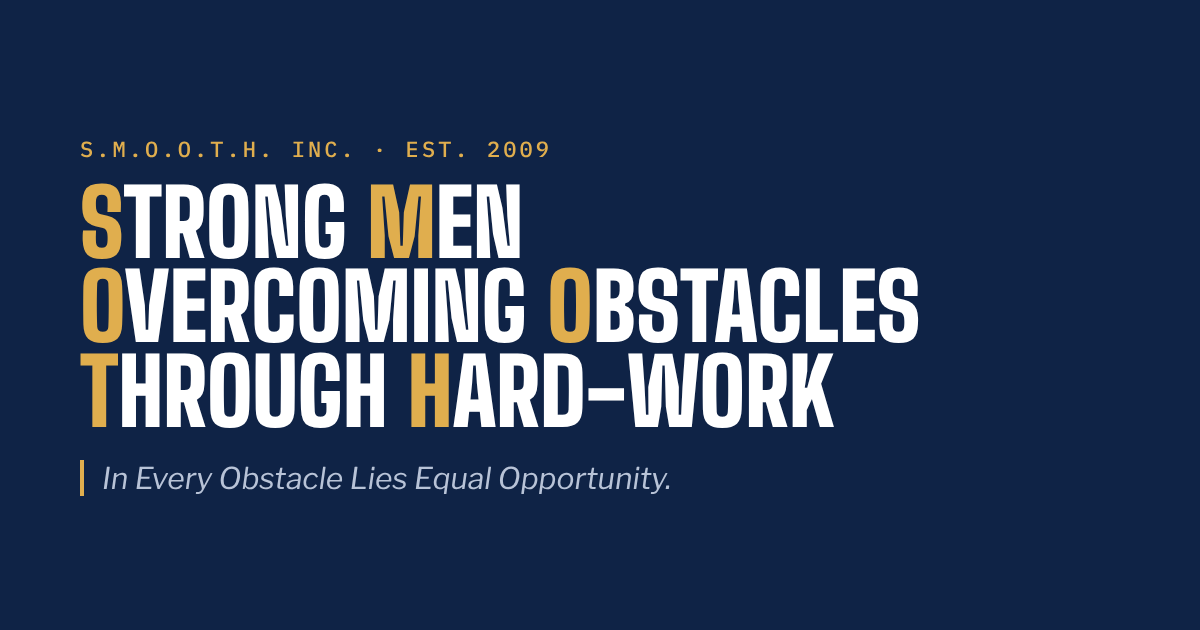
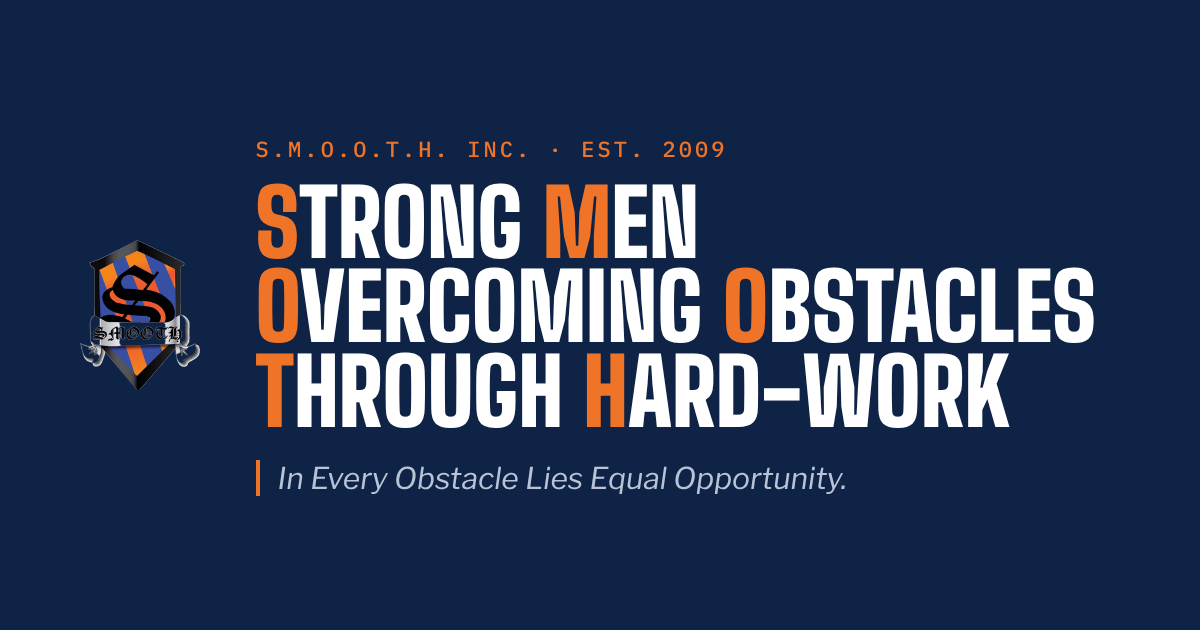
Apply S.M.O.O.T.H. brand, photos, and founder bios from the old site
- Brand highlight is the crest orange (#f07427 on navy, #a84a10 on white)
- Main crest as logo/favicon; section cards show each section's crest
- Founder headshots and full bios; group and program photos added
- Donate uses the old site's PayPal button link; embed slot removed
- Share image rebuilt with logo and new color

Claude-Session: https://claude.ai/code/session_013ZqM9px2qDnEYrbRGVww8o

Changed region(s): [[0.0617, 0.2111, 0.925, 0.6937], [0.0617, 0.7238, 0.7092, 0.7841]]

diff --git a/smooth2009/site/index.html b/smooth2009/site/index.html
@@ -7,6 +7,7 @@
 <meta name="description" content="Strong Men Overcoming Obstacles Through Hard-work Inc. is a 501(c)(3) nonprofit offering mentoring, leadership, and life skills for young men of color since 2009, with sections at Morgan State, Coppin State, and Temple.">
 <link rel="canonical" href="https://smooth2009.org/">
 <meta name="theme-color" content="#0f2346">
+<link rel="apple-touch-icon" href="images/logo.png">
 <meta property="og:type" content="website">
 <meta property="og:site_name" content="S.M.O.O.T.H. Inc.">
 <meta property="og:title" content="S.M.O.O.T.H. Inc. | Strong Men Overcoming Obstacles Through Hard-work">
@@ -60,8 +61,8 @@
    Layout: dark charter-band hero with the acronym spelled out, then alternating light/dark bands; a 1120px column, stacking to one column on phones. */
 :root{
   --ground:#ffffff; --panel:#f2f4f8; --ink:#0f1d33; --muted:#526075; --line:#d9dee7;
-  --accent:#8c5f10; --on-accent:#0f1d33; --field-line:#7d889b;
-  --band:#0f2346; --band-2:#16305c; --on-band:#ffffff; --on-band-muted:#b8c3d7; --band-accent:#e0ae4e;
+  --accent:#a84a10; --on-accent:#0f1d33; --field-line:#7d889b;
+  --band:#0f2346; --band-2:#16305c; --on-band:#ffffff; --on-band-muted:#b8c3d7; --band-accent:#f07427;
   --band-hair:#ffffff14; --band-rule:#ffffff24; --band-control:#ffffff40;
   --ok:#2f6b3a; --err:#a3242f;
   --f-display:"Big Shoulders Display","Arial Narrow",Impact,sans-serif;
@@ -71,13 +72,13 @@
 }
 @media (prefers-color-scheme:dark){:root:not([data-theme="light"]){
   --ground:#0b1426; --panel:#111d34; --ink:#e9edf4; --muted:#9fabc0; --line:#24314b;
-  --accent:#e0ae4e; --on-accent:#0f1d33; --field-line:#5d6c88;
-  --band:#071021; --band-2:#0f1d36; --on-band:#ffffff; --on-band-muted:#a9b5cb; --band-accent:#e6b65a;
+  --accent:#f07427; --on-accent:#0f1d33; --field-line:#5d6c88;
+  --band:#071021; --band-2:#0f1d36; --on-band:#ffffff; --on-band-muted:#a9b5cb; --band-accent:#f07427;
   --ok:#6fbf7d; --err:#ee7f88; color-scheme:dark}}
 :root[data-theme="dark"]{
   --ground:#0b1426; --panel:#111d34; --ink:#e9edf4; --muted:#9fabc0; --line:#24314b;
-  --accent:#e0ae4e; --on-accent:#0f1d33; --field-line:#5d6c88;
-  --band:#071021; --band-2:#0f1d36; --on-band:#ffffff; --on-band-muted:#a9b5cb; --band-accent:#e6b65a;
+  --accent:#f07427; --on-accent:#0f1d33; --field-line:#5d6c88;
+  --band:#071021; --band-2:#0f1d36; --on-band:#ffffff; --on-band-muted:#a9b5cb; --band-accent:#f07427;
   --ok:#6fbf7d; --err:#ee7f88; color-scheme:dark}
 
 *{box-sizing:border-box}
@@ -175,6 +176,17 @@ p{margin:0}
 @media (max-width:860px){.timeline{grid-template-columns:1fr;border-top:0;border-left:2px solid var(--ink);margin-left:6px}
   .timeline li{padding:0 0 26px 24px}.timeline li::before{top:4px;left:-7px}}
 
+/* Photos */
+.photo-wide{margin:48px 0 0;aspect-ratio:2/1;overflow:hidden;background:var(--panel)}
+.photo-wide img{width:100%;height:100%;object-fit:cover;display:block}
+.photo-wide figcaption,.gallery figcaption{font-size:.85rem;color:var(--muted);padding-top:8px}
+.gallery{display:grid;grid-template-columns:repeat(4,1fr);gap:12px;margin-top:40px}
+.gallery figure{margin:0;min-width:0}
+.gallery img{width:100%;height:auto;aspect-ratio:4/3;object-fit:cover;display:block;background:var(--band-2)}
+.dark .gallery figcaption{color:var(--on-band-muted)}
+@media (max-width:760px){.gallery{grid-template-columns:1fr 1fr}.photo-wide{aspect-ratio:3/2}}
+.involved-photo{margin:0 0 48px}
+
 /* Programs */
 .programs{display:grid;grid-template-columns:repeat(2,1fr);gap:1px;background:var(--band-rule);border:1px solid var(--band-rule)}
 .program{background:var(--band);padding:32px 28px;display:grid;gap:12px;align-content:start}
@@ -191,9 +203,9 @@ p{margin:0}
 /* Sections (chapters) */
 .chapters{display:grid;grid-template-columns:repeat(3,1fr);gap:24px}
 .chapter{background:var(--ground);border:1px solid var(--line);display:grid;grid-template-rows:auto 1fr}
-.chapter figure{margin:0;aspect-ratio:4/3;background:var(--band-2);position:relative;overflow:hidden;max-width:100%}
-.chapter figure img{width:100%;height:100%;object-fit:cover;display:block}
-.chapter figure .mono{position:absolute;inset:0;display:none;place-items:center;font-family:var(--f-display);font-weight:900;font-size:4.5rem;color:var(--band-accent);letter-spacing:.04em}
+.chapter figure{margin:0;aspect-ratio:4/3;background:var(--panel);position:relative;overflow:hidden;max-width:100%}
+.chapter figure img{width:100%;height:100%;object-fit:contain;padding:18px;display:block}
+.chapter figure .mono{position:absolute;inset:0;display:none;place-items:center;font-family:var(--f-display);font-weight:900;font-size:4.5rem;color:var(--accent);letter-spacing:.04em}
 .noimg img{display:none}
 .noimg .mono{display:grid!important}
 .chapter-body{padding:22px 22px 24px;display:grid;gap:14px;align-content:start}
@@ -209,14 +221,16 @@ p{margin:0}
 
 /* Founders */
 .founders{display:grid;grid-template-columns:repeat(2,1fr);gap:40px 48px}
-.founder{display:grid;grid-template-columns:120px 1fr;gap:20px;align-items:start}
+.founder{display:grid;grid-template-columns:140px 1fr;gap:20px;align-items:start}
 .founder > *{min-width:0}
-.founder figure{margin:0;width:120px;aspect-ratio:1;background:var(--panel);border:1px solid var(--line);position:relative;overflow:hidden}
+.founder figure{margin:0;width:140px;aspect-ratio:1;background:var(--panel);border:1px solid var(--line);position:relative;overflow:hidden}
 .founder figure img{width:100%;height:100%;object-fit:cover;display:block}
+.founders{align-items:start}
 .founder figure .mono{position:absolute;inset:0;display:none;place-items:center;font-family:var(--f-display);font-weight:800;font-size:2.4rem;color:var(--accent)}
 .founder h3{font-size:1.45rem}
 .founder .role{font-family:var(--f-mono);font-size:.75rem;letter-spacing:.08em;text-transform:uppercase;color:var(--accent);margin:4px 0 10px}
 .founder p{color:var(--muted);font-size:.96rem}
+.founder p + p{margin-top:10px}
 @media (max-width:860px){.founders{grid-template-columns:1fr}}
 @media (max-width:440px){.founder{grid-template-columns:1fr}.founder figure{width:96px}}
 
@@ -271,7 +285,6 @@ legend{font-size:.85rem;font-weight:600;padding:0;margin-bottom:6px}
 .uses{list-style:none;padding:0;margin:8px 0 0;display:grid;gap:8px}
 .uses li{color:var(--on-band-muted);padding-left:22px;position:relative}
 .uses li::before{content:"";position:absolute;left:0;top:.62em;width:10px;height:2px;background:var(--band-accent)}
-#paypal-slot:empty{display:none}
 @media (max-width:860px){.donate{grid-template-columns:1fr}}
 
 /* Footer */
@@ -370,6 +383,8 @@ legend{font-size:.85rem;font-weight:600;padding:0;margin-bottom:6px}
         </div>
       </div>
 
+      <figure class="photo-wide"><img src="images/about-members.jpg" width="1600" height="800" loading="lazy" alt="A large group of S.M.O.O.T.H. members and guests standing together in a meeting room, several in suits"></figure>
+
       <ol class="timeline" aria-label="Our history">
         <li><span class="t-date">Winter 2008</span><span class="t-what">The idea</span><span class="t-note">Dwight Flowers brings a retention and mentoring concept to DaQuan Lawrence.</span></li>
         <li><span class="t-date">Oct 28, 2009</span><span class="t-what">Founded at Morgan State</span><span class="t-note">Four founders charter the first section in Baltimore.</span></li>
@@ -401,6 +416,12 @@ legend{font-size:.85rem;font-weight:600;padding:0;margin-bottom:6px}
         <div class="init"><strong>Youth Empowerment</strong><span>Educational, social-emotional, spiritual, and civic programs</span></div>
         <div class="init"><strong>Economic Development</strong><span>Financial literacy and entrepreneurship</span></div>
       </div>
+      <div class="gallery">
+        <figure><img src="images/program-mentoring.jpg" width="900" height="675" loading="lazy" alt="Members speaking to a classroom of young students seated at desks"><figcaption>Mentoring in the classroom</figcaption></figure>
+        <figure><img src="images/program-service.jpg" width="750" height="562" loading="lazy" alt="Members in S.M.O.O.T.H. jackets walking down a rowhouse street during a neighborhood cleanup"><figcaption>Neighborhood cleanup</figcaption></figure>
+        <figure><img src="images/program-cleanup.jpg" width="750" height="562" loading="lazy" alt="Members sweeping and bagging trash on a city street"><figcaption>Community service</figcaption></figure>
+        <figure><img src="images/program-events.jpg" width="900" height="675" loading="lazy" alt="Members in S.M.O.O.T.H. shirts at an information table at a campus event"><figcaption>Campus outreach</figcaption></figure>
+      </div>
     </div>
   </section>
 
@@ -412,7 +433,7 @@ legend{font-size:.85rem;font-weight:600;padding:0;margin-bottom:6px}
       </div>
       <div class="chapters">
         <article class="chapter">
-          <figure><img src="images/section-msu.jpg" alt="Morgan State section members" onerror="this.parentNode.classList.add('noimg')"><span class="mono" aria-hidden="true">MSU</span></figure>
+          <figure><img src="images/section-msu.png" width="388" height="480" loading="lazy" alt="S.M.O.O.T.H. crest for the Morgan State University section" onerror="this.parentNode.classList.add('noimg')"><span class="mono" aria-hidden="true">MSU</span></figure>
           <div class="chapter-body">
             <h3>Morgan State University</h3>
             <dl><dt>City</dt><dd>Baltimore, MD</dd><dt>Chartered</dt><dd>Oct. 28, 2009</dd><dt>Status</dt><dd>Founding section</dd></dl>
@@ -420,7 +441,7 @@ legend{font-size:.85rem;font-weight:600;padding:0;margin-bottom:6px}
           </div>
         </article>
         <article class="chapter">
-          <figure><img src="images/section-tu.jpg" alt="Temple University section members" onerror="this.parentNode.classList.add('noimg')"><span class="mono" aria-hidden="true">TU</span></figure>
+          <figure><img src="images/section-tu.png" width="388" height="480" loading="lazy" alt="S.M.O.O.T.H. crest for the Temple University section" onerror="this.parentNode.classList.add('noimg')"><span class="mono" aria-hidden="true">TU</span></figure>
           <div class="chapter-body">
             <h3>Temple University</h3>
             <dl><dt>City</dt><dd>Philadelphia, PA</dd><dt>Chartered</dt><dd>Jan. 16, 2016</dd><dt>Status</dt><dd>Active</dd></dl>
@@ -428,7 +449,7 @@ legend{font-size:.85rem;font-weight:600;padding:0;margin-bottom:6px}
           </div>
         </article>
         <article class="chapter">
-          <figure><img src="images/section-csu.jpg" alt="Coppin State section members" onerror="this.parentNode.classList.add('noimg')"><span class="mono" aria-hidden="true">CSU</span></figure>
+          <figure><img src="images/section-csu.png" width="388" height="480" loading="lazy" alt="S.M.O.O.T.H. crest for the Coppin State University section" onerror="this.parentNode.classList.add('noimg')"><span class="mono" aria-hidden="true">CSU</span></figure>
           <div class="chapter-body">
             <h3>Coppin State University</h3>
             <dl><dt>City</dt><dd>Baltimore, MD</dd><dt>Chartered</dt><dd>Dec. 12, 2016</dd><dt>Status</dt><dd>Active</dd></dl>
@@ -453,22 +474,26 @@ legend{font-size:.85rem;font-weight:600;padding:0;margin-bottom:6px}
         <article class="founder">
           <figure><img src="images/founder-flowers.jpg" alt="Dwight D. Flowers" onerror="this.parentNode.classList.add('noimg')"><span class="mono" aria-hidden="true">DF</span></figure>
           <div><h3>Dwight D. Flowers</h3><p class="role">Co-founder · Brooklyn, NY</p>
-          <p>Known as DJ Flow, Dwight was raised by a single mother and started both S.M.O.O.T.H. and his DJ career at Morgan State in 2009. He was named Baltimore DJ of the Year by Fab Empire in 2013 and by the Baltimore Sun in 2019, and has performed at colleges and stadiums across the country as a member of the Core DJs coalition.</p></div>
+          <p>Known as DJ Flow, Brooklyn-born Dwight Flowers learned the value of hard work early. Raised by a single mother, he grew up committed to serving his community and providing for others. At Morgan State University in 2009 he started two things: S.M.O.O.T.H. and his career as a DJ. Within six years he had become one of the most sought-after DJs in the DMV.</p>
+          <p>Fab Empire named him Baltimore DJ of the Year in 2013, and the Baltimore Sun gave him the same title in 2019. He has performed at colleges and stadiums across the country and for clients including Nicki Minaj, Michelle Obama, Khlo&eacute; Kardashian, and Jay-Z. A member of the Core DJs coalition, he has been a voice of DTLR Radio and an official DJ for Shy Glizzy, Roc Nation's Casanova, and Tate Kobang.</p></div>
         </article>
         <article class="founder">
           <figure><img src="images/founder-lawrence.jpg" alt="DaQuan M. Lawrence" onerror="this.parentNode.classList.add('noimg')"><span class="mono" aria-hidden="true">DL</span></figure>
           <div><h3>DaQuan M. Lawrence, MIPP</h3><p class="role">Co-founder · Harlem, NY</p>
-          <p>DaQuan is an international humanitarian, human rights advocate, and civil servant who has worked in health policy research at the Urban Institute. His work has taken him from Baltimore education policy to labor research in Indonesia, migration research in Haiti and the Dominican Republic, and Ebola response in Liberia. Born into foster care in New York City, he centers marginalized people in all of his work.</p></div>
+          <p>DaQuan Lawrence is an international humanitarian, human rights advocate, and civil servant from Harlem, New York. At the Urban Institute's Health Policy Center he has supported research on substance use and opioid use disorders, the Affordable Care Act, Medicaid and Medicare, and social and economic inequality, and he developed a cultural competency toolkit for research on populations of African descent for Urban's Diversity and Inclusion Steering Committee.</p>
+          <p>His graduate studies focused on international public policy, human rights, humanitarian research, and economics. His work has taken him to Washington, DC for policy and advocacy; to Baltimore for education policy, community outreach, and racial equity; to Indonesia to study labor practices; to Haiti and the Dominican Republic to research migration, displacement, and statelessness; and to Liberia, where he worked with vulnerable women and ex-combatant youth during the Ebola response. Born into foster care in New York City to an orphaned teenage mother, he centers marginalized people in all of his work.</p></div>
         </article>
         <article class="founder">
           <figure><img src="images/founder-hooker.jpg" alt="Hakeem T. Hooker" onerror="this.parentNode.classList.add('noimg')"><span class="mono" aria-hidden="true">HH</span></figure>
           <div><h3>Hakeem T. Hooker</h3><p class="role">Co-founder · Philadelphia, PA</p>
-          <p>Born in Philadelphia and raised in Delaware, Hakeem studied hospitality management at Morgan State. He became a food service director at 25, managing multi-million-dollar accounts, and in 2016 founded DinnerClub Hospitality LLC, a corporate and celebrity catering company. He continues to devote his time to the growth of S.M.O.O.T.H. Inc.</p></div>
+          <p>Born in Philadelphia and raised in Delaware, Hakeem Hooker arrived at Morgan State University in the spring of 2008 with a dual culinary diploma from high school. He majored in hospitality management with a minor in marketing, and an internship with the campus food service company became a part-time job that lasted until graduation. At 25 he became a food service director, managing multi-million-dollar accounts and serving more than 1,600 people per meal period.</p>
+          <p>In 2016, at 28, he founded DinnerClub Hospitality LLC, a corporate and celebrity catering company. Its clients have included Downtown Locker Room, Morgan State University, the Be Organization, and Banner Hill, as well as artists, athletes, and public figures such as 2 Chainz, Meek Mill, Roc Nation A&amp;R Rel Carter, journalist Kevin Blackistone, and author Dawn West. He continues to build DinnerClub while devoting his time and effort to the growth of S.M.O.O.T.H. Inc.</p></div>
         </article>
         <article class="founder">
           <figure><img src="images/founder-watkins.jpg" alt="Frederick D. Watkins Jr." onerror="this.parentNode.classList.add('noimg')"><span class="mono" aria-hidden="true">FW</span></figure>
           <div><h3>Frederick D. Watkins Jr.</h3><p class="role">Co-founder · Baltimore, MD</p>
-          <p>Fred is a comedian, event producer, and host whose passion for service and mentorship began at Morgan State. He founded Lil' Laughs, an anti-bullying campaign that uses comedy and mentorship, and BIG Laughs Company LLC, and has appeared on Oxygen's "Last Squad Standing."</p></div>
+          <p>Fred Watkins Jr. is a comedian, event producer, and host from Baltimore, Maryland. At Morgan State University he found a passion for community service and mentorship that led him to found two companies of his own.</p>
+          <p>He founded Lil' Laughs, an anti-bullying campaign that reshapes the idea of the "class clown" and counters bullying through comedy and mentorship. Through BIG Laughs Company LLC he works with comedians across the country, and he has appeared on Oxygen's "Last Squad Standing."</p></div>
         </article>
       </div>
     </div>
@@ -480,6 +505,7 @@ legend{font-size:.85rem;font-weight:600;padding:0;margin-bottom:6px}
         <p class="eyebrow">Get involved</p>
         <h2>Every contribution goes a long way</h2>
       </div>
+      <figure class="photo-wide involved-photo"><img src="images/involved-members.jpg" width="1242" height="621" loading="lazy" alt="Seven members in suits standing on the steps outside a campus building"></figure>
       <div class="ways">
         <div class="way"><h3>Partner with us</h3><p>Invite us to visit your school, bring S.M.O.O.T.H. men to volunteer at your event, or start a section at your college.</p></div>
         <div class="way"><h3>Volunteer your time</h3><p>Mentors, speakers, and professionals help our members and Jr. SMOOTH youth see what is possible.</p></div>
@@ -588,9 +614,8 @@ legend{font-size:.85rem;font-weight:600;padding:0;margin-bottom:6px}
         </ul>
       </div>
       <div class="give-box">
-        <!-- PAYPAL: paste the PayPal embed code inside #paypal-slot. Remove the fallback button below once it's in. -->
-        <div id="paypal-slot"></div>
-        <a class="btn accent" id="paypal-fallback" href="https://www.paypal.com/cgi-bin/webscr?cmd=_donations&amp;business=Info%40smoothmen.org&amp;item_name=Strong%20Men%20Overcoming%20Obstacles%20Through%20Hard-work%20Inc.&amp;currency_code=USD" target="_blank" rel="noopener">Donate with PayPal</a>
+        <!-- PayPal donate link, same as the old site's button. Receiving account: Info@smoothmen.org -->
+        <a class="btn accent" id="paypal-donate" href="https://www.paypal.com/cgi-bin/webscr?cmd=_donations&amp;business=Info%40smoothmen.org&amp;item_name=Strong%20Men%20Overcoming%20Obstacles%20Through%20Hard-work%20Inc.&amp;currency_code=USD" target="_blank" rel="noopener">Donate with PayPal</a>
         <p class="fine">S.M.O.O.T.H. Inc. is a 501(c)(3) nonprofit organization. Contributions are tax-deductible to the extent allowed by law. EIN: <span id="ein">[EIN]</span></p>
       </div>
     </div>
@@ -690,9 +715,6 @@ const FORM_ENDPOINT = "";
     const s=f.querySelector('[type=submit]'); s.dataset.label=s.textContent;
   });
 
-  // Hide PayPal fallback once the embed is pasted in
-  const slot=document.getElementById('paypal-slot');
-  if(slot && slot.children.length){const fb=document.getElementById('paypal-fallback'); if(fb) fb.remove()}
 
   // Copy email
   const cb=document.getElementById('copyEmail'), em=document.getElementById('emailAddr');

diff --git a/smooth2009/README.md b/smooth2009/README.md
@@ -12,19 +12,23 @@
 
 ## Photos and logo
 Put these in `site/images/` with these exact names. A missing photo shows lettered initials instead.
-- `logo.png` (square or tall, transparent background preferred)
-- `section-msu.jpg`, `section-tu.jpg`, `section-csu.jpg` (landscape, about 1200 x 900)
-- `founder-flowers.jpg`, `founder-lawrence.jpg`, `founder-hooker.jpg`, `founder-watkins.jpg` (square, about 600 x 600)
+- `logo.png`: the main S.M.O.O.T.H. crest (orange and blue), transparent background
+- `section-msu.png`, `section-tu.png`, `section-csu.png`: each section's crest (Morgan orange and blue, Temple red and white, Coppin gold and blue)
+- `founder-flowers.jpg`, `founder-lawrence.jpg`, `founder-hooker.jpg`, `founder-watkins.jpg`: square, about 600 x 600
+- `about-members.jpg` (2:1), `involved-members.jpg` (2:1): wide group photos
+- `program-mentoring.jpg`, `program-service.jpg`, `program-cleanup.jpg`, `program-events.jpg`: 4:3 photos in the What We Do gallery
+- To swap a photo, save the new one under the same name and shape. All current images came from the old Wix site.
 - `og-image.png` is the picture shown when the site is shared on social media. Do not edit it by hand. Rebuild it with `node tools/make-og-image.js` after the logo or brand color changes.
 
 ## Changing the brand color
-The highlight color is set in one place: the `--accent` and `--band-accent` lines at the top of the `<style>` block in `site/index.html`. There are three copies, for light mode, dark mode, and forced dark mode. Change all three.
+The highlight color is the orange from the S.M.O.O.T.H. crest (`#f07427`). It is set in one place: the `--accent` and `--band-accent` lines at the top of the `<style>` block in `site/index.html`. There are three copies, for light mode, dark mode, and forced dark mode. Change all three.
 - `--band-accent` is the color used on navy backgrounds (buttons, hero letters).
 - `--accent` is the same color darkened enough to read on white. Check it with `tools/contrast.py`. It needs at least 4.5 against `#ffffff` and `#f2f4f8`.
 
 ## Launch checklist (Phase 1)
-- [ ] Logo, brand color, and photos added
-- [ ] PayPal embed pasted inside `<div id="paypal-slot"></div>`, receiving account confirmed, fallback button deleted
+- [x] Logo, brand color, and photos added
+- [x] Founder bios updated from the old site
+- [ ] PayPal donate button: uses the old site's link, which pays **Info@smoothmen.org**. Confirm that account is active and owned by The Inc.
 - [ ] EIN filled in (search `[EIN]` in `site/index.html`)
 - [ ] Apps Script deployed and its URL pasted into `FORM_ENDPOINT` (see `docs/admin-guide-forms.md`)
 - [ ] All four forms tested from the live site
